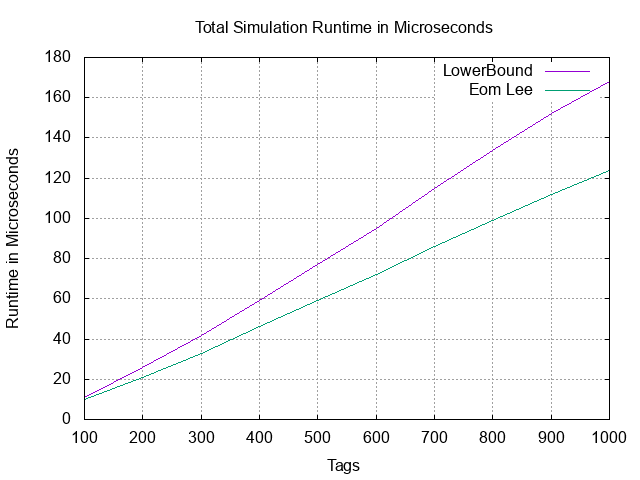
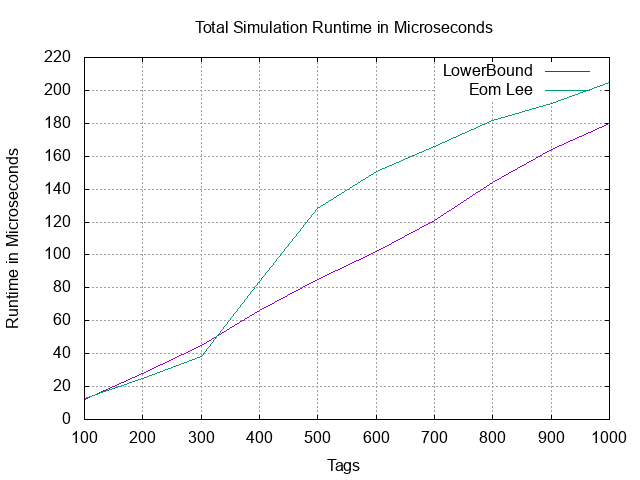
Fixing eom lee bug

diff --git a/src/eomlee.cpp b/src/eomlee.cpp
@@ -13,7 +13,7 @@ class EomLee : public Estimator{
           double eb = (1+(1/b))*e;
           double nb = b*(1-eb);
           y = a/nb;
-          if(abs(y-py) < eps){
+          if(fabs(y-py) < eps){
             break;
           }
           py = y;
